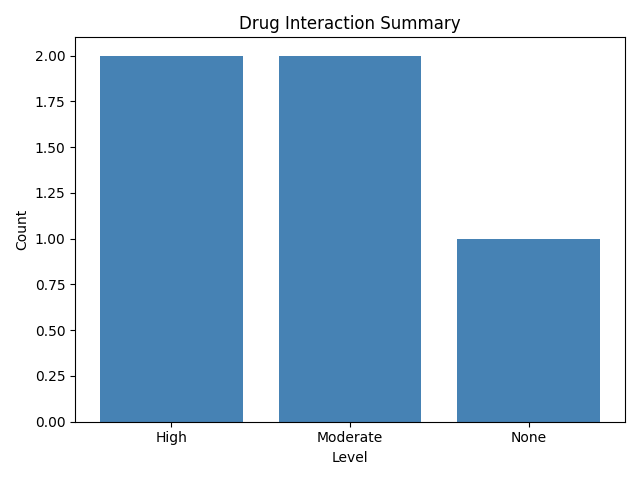
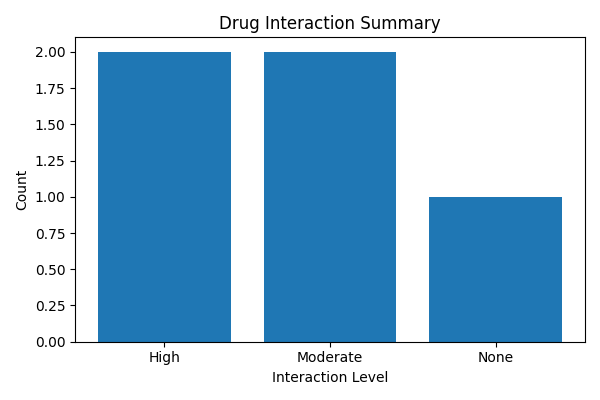
Day2: analyzer v2 - summary json and chart

diff --git a/11_drug_interaction_analyzer_v2.py b/11_drug_interaction_analyzer_v2.py
@@ -1,5 +1,5 @@
 # --- Day2 Step5: Analyzer v2 ---
-import csv, collections, matplotlib.pyplot as plt, json
+import csv, collections, matplotlib.pyplot as plt, json, os
 
 CSV_PATH = "data/drug_interactions.csv"
 
@@ -8,28 +8,36 @@ def load_data(path):
         return list(csv.DictReader(f))
 
 def summarize(data):
-    counts = collections.Counter(row["interaction_level"].capitalize() for row in data)
+    counts = collections.Counter((row.get("interaction_level") or "none").strip().capitalize() for row in data)
     return counts
 
 def export_json(summary, path="interaction_summary.json"):
+    obj = {k: int(v) for k,v in summary.items()}
     with open(path, "w", encoding="utf-8") as f:
-        json.dump(summary, f, indent=2)
+        json.dump(obj, f, indent=2)
     return path
 
-def plot_summary(summary):
-    plt.bar(summary.keys(), summary.values(), color="steelblue")
+def plot_summary(summary, path="interaction_summary.png"):
+    keys = list(summary.keys())
+    vals = [int(summary[k]) for k in keys]
+    plt.figure(figsize=(6,4))
+    plt.bar(keys, vals)
     plt.title("Drug Interaction Summary")
-    plt.xlabel("Level")
+    plt.xlabel("Interaction Level")
     plt.ylabel("Count")
     plt.tight_layout()
-    plt.savefig("interaction_summary.png")
+    plt.savefig(path)
     plt.close()
+    return path
 
 if __name__ == "__main__":
+    if not os.path.exists(CSV_PATH):
+        print("ERROR: CSV not found:", CSV_PATH)
+        raise SystemExit(1)
     data = load_data(CSV_PATH)
     summary = summarize(data)
-    print("Summary:", summary)
-    export_json(summary)
-    plot_summary(summary)
-    print("Summary exported → interaction_summary.json")
-    print("Chart exported → interaction_summary.png")
+    print("Summary (counts):", summary)
+    json_path = export_json(summary)
+    png_path = plot_summary(summary)
+    print("Exported JSON ->", json_path)
+    print("Exported chart ->", png_path)
